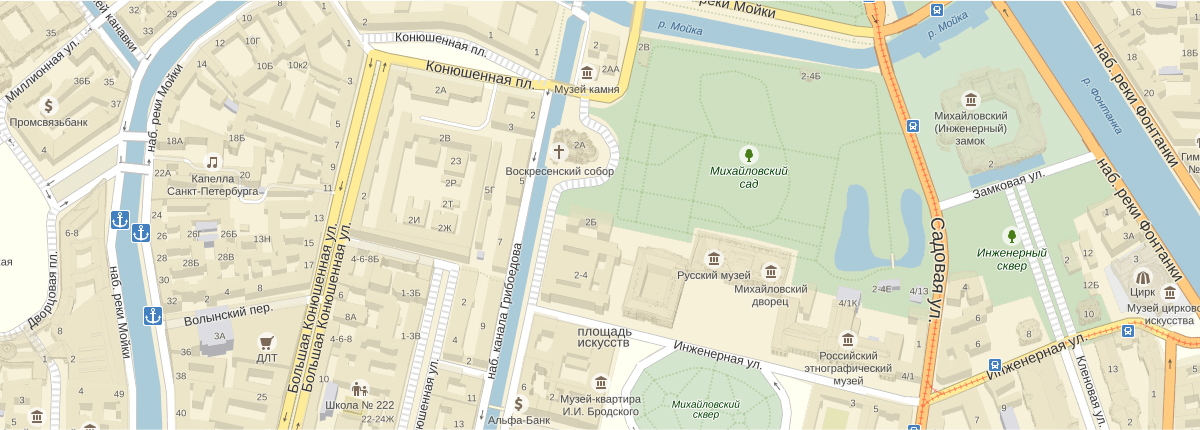
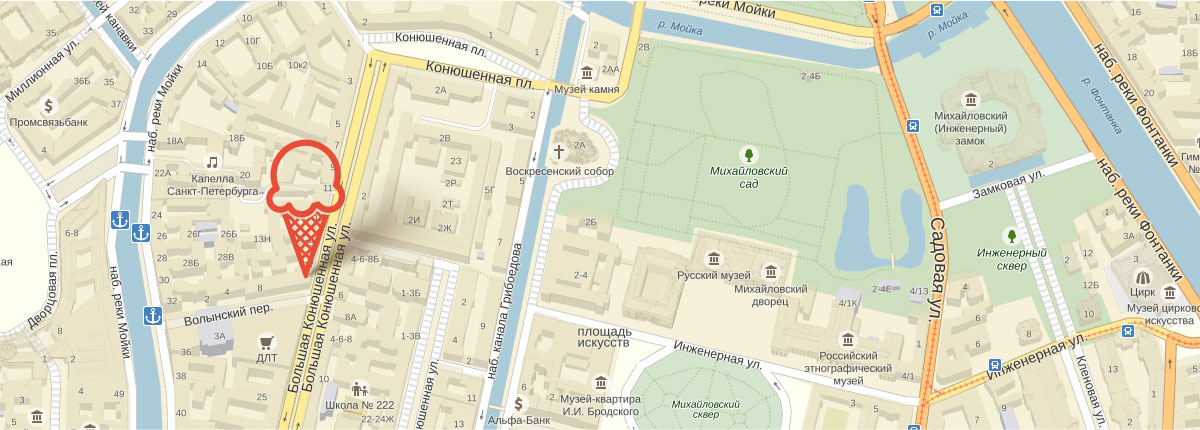
Подключил интерактивные элементы

Changed region(s): [[0.2158, 0.3023, 0.37, 0.6651]]

diff --git a/css/style.css b/css/style.css
@@ -12,6 +12,17 @@ body > input[type="radio"] {
   display: none;
 }
 
+input,
+textarea {
+  padding: 8px 13px 10px 13px ;
+  border-radius: 5px;
+  border: 1px solid #d3d3d3;
+  font-size: 14px;
+  line-height: 24px;
+  font-weight: 400;
+  outline: none;
+}
+
 a {
   color: #ffffff;
   text-decoration: none;
@@ -742,17 +753,17 @@ a {
   border-radius: 10px;
   color: #5a5a5a;
   background-color: #f8f7f4;
+  padding-left: 20px; 
 }
 
 .inner-mail p {
   margin: 0;
-  padding: 28px 20px 35px 20px;
+  padding: 28px 20px 35px 0;
 }
 
 .email {
   width: 340px;
-  margin: 0 10px 35px 20px ;
-  padding: 9px 13px;
+  margin: 0 10px 30px 0 ;
   border-radius: 5px;
   border: 1px solid #d3d3d3;
   font-size: 16px;
@@ -772,8 +783,10 @@ a {
 .index-map {
   position: relative;
   width: 1200px;
+  min-height: 430px;
   margin-left: -2.3%;
   margin-bottom: 25px; 
+  background: url("../img/map.jpg");
 }
 
 .feedback {
@@ -810,12 +823,6 @@ a {
   line-height: 24px;
   font-weight: 700;
 }
-
-/*.map-tag {
-    position: absolute;
-    top: 140px;
-    left: 260px;
-}*/
 
 /*---*/
 
@@ -1160,15 +1167,15 @@ li:hover .login {
   color: #ffbc9e;
 }
 
-.search-form input:hover,
-.login-form input:hover {
+input:hover,
+textarea:hover {
   padding: 7px 12px 9px 12px;
   outline: none;
   border: 2px solid #d3d3d3; 
 }
 
-.search-form input:focus,
-.login-form input:focus {
+input:focus,
+textarea:focus {
   padding: 7px 12px 9px 12px;
   outline: none;
   border: 2px solid #5b9ddf;
@@ -1183,12 +1190,30 @@ li:hover .login {
   color: #5b9ddf;
 }
 
-input:focus + label.hide-top span{
+input + label.hide-top span,
+textarea + label.hide-top span {
+  position: absolute;
+}
+
+input:focus + label.hide-top span {
   position: absolute;
   top: -40px;
   display: block;
   font-size: 11px;
   white-space: nowrap;
+}
+
+textarea:focus + label.hide-top span {
+  position: absolute;
+  top: 135px;
+  display: block;
+  font-size: 11px;
+  white-space: nowrap;
+}
+
+popup-feedback span,
+form span {
+  padding-left: 15px;
 }
 
 :focus::-webkit-input-placeholder {
@@ -1560,4 +1585,131 @@ input[type=range]::-moz-range-thumb {
   border-radius: 50%;
   cursor: pointer;
   -moz-appearance: none;
+}
+
+/*---*/
+
+.popup-feedback {
+  position: fixed;
+  top: 50%;
+  left: 50%;
+  z-index: 100;
+  display: none;
+  box-sizing: border-box;
+  width: 476px;
+  height: 442px;
+  margin-top: -221px;
+  margin-left: -238px;
+  padding-right: 25px;
+  padding-left: 25px;
+  color: #323232;
+  background-color: #f8f7f4;
+  border-radius: 10px;
+}
+
+.popup-feedback h3 {
+  margin: 0;
+  margin-top: 16px;
+  font-weight: 500;
+  font-size: 24px;
+  line-height: 28px;
+}
+
+.popup-feedback input {
+  box-sizing: border-box;
+  width: 267px;
+  margin-left: 0;
+  margin-top: 20px;
+}
+
+.popup-feedback textarea {
+  box-sizing: border-box;
+  width: 428px;
+  height: 155px;
+  margin-left: 0;
+  margin-top: 20px;
+}
+
+.popup-feedback button {
+  float: right;
+  margin-top: 15px;
+}
+
+.popup-close {
+  position: absolute;
+  top: 0px;
+  right: 15px;
+  width: 17px;
+  height: 17px;
+  font-size: 0;
+  background-color: #f8f7f4;
+  border: 0;
+  outline: 0;
+  cursor: pointer;
+}
+
+.popup-close::before,
+.popup-close::after {
+  content: "";
+  position: absolute;
+  top: 7px;
+  left: -2px;
+  width: 22px;
+  height: 2px;
+  background-color: #000000;
+  border-radius: 1px;
+}
+
+.popup-close::before {
+  -webkit-transform: rotate(45deg);
+          transform: rotate(45deg);
+}
+
+.popup-close::after {
+  -webkit-transform: rotate(-45deg);
+          transform: rotate(-45deg);
+}
+
+.popup-close:hover::before,
+.popup-close:hover::after {
+  background-color: #323232;
+}
+
+.popup-overlay {
+  position: fixed;
+  top: 0;
+  left: 0;
+  z-index: 90;
+  display: none;
+  width: 100%;
+  height: 100%;
+  background-color: rgba(0, 0, 0, 0.3);
+}
+
+.popup-feedback-show,
+.popup-overlay-show {
+  display: block;
+}
+
+.popup-feedback-show {
+  animation: bounce 0.6s;
+}
+
+@keyframes bounce {
+  0% {
+    -webkit-transform: translateY(-2000px);
+            transform: translateY(-2000px);
+  }
+  70% {
+    -webkit-transform: translateY(30px);
+            transform: translateY(30px);
+  }
+  90% {
+    -webkit-transform: translateY(-10px);
+            transform: translateY(-10px);
+  }
+  100% {
+    -webkit-transform: translateY(0);
+            transform: translateY(0);
+  }
 }

diff --git a/index.html b/index.html
@@ -156,23 +156,21 @@
                 <p>Подпишитесь на нашу сладкую рассылку и будете всегда в курсе всего самого вкусного, что у нас происходит. Обещаем не спамить и не слать всякой не нужной ерунды. Честно =)</p>
                 <form class="index-form" action="#" method="POST">
                   <input class="email" type="email" name="mail" value="" placeholder="Электронная почта">
+                  <label class="hide-top"><span>Электронная почта</span></label>
                   <button class="btn btn-mail" type="submit">Отправить</button>
                 </form>
               </div>
             </div>
           </section>
           <div class="index-map">
-            <div id="yandex-map">
-              <!--<img src="img/map.jpg" width="1200" height="430" alt="карта главного офиса">-static-->
-            </div>
-            <!--<div class="map-tag"><img src="img/map-tag.png" width="218" height="142" alt="метка главного офиса"></div>-->
+            <div id="yandex-map"></div>
             <div class="feedback">
               <h4>Адрес главного офиса и<br>офлайн магазина:</h4>
               <p> ул. Большая Конюшенная<br>19/8, Санкт-Петербург</p>
               <h4>Для заказов по телефону:</h4>
               <p>8 812 450-25-25</p>
               <span>(с 10 до 20 ежедневно)</span><br>
-              <button class="btn" type="submit">Форма обратной связи</button>
+              <button class="btn btn-feedback" type="submit">Форма обратной связи</button>
             </div>
           </div>
         </div>
@@ -202,6 +200,21 @@
         </div>
       </footer>
     </div>
+    <div class="popup-overlay"></div>
+    <div class="popup-feedback">
+      <h3>Мы обязательно вам ответим!</h3>
+      <button class="popup-close" type="button" title="Закрыть">Закрыть</button>
+      <form action="#" method="post">
+        <input type="text" name="popup-name" placeholder="Как вас зовут?" required>
+        <label class="hide-top"><span>Как вас зовут?</span></label>
+        <input type="email" name="popup-email" placeholder="Ваша почта для ответа?" required>
+        <label class="hide-top"><span>Ваша почта для ответа?</span></label>
+        <textarea name="popup-message" placeholder="Напишите что-нибудь..." required></textarea>
+        <label class="hide-top"><span>Напишите что-нибудь...</span></label>
+        <button class="btn site-button">Отправить</button>
+      </form>
+    </div>
     <script type="text/javascript" charset="utf-8" async src="https://api-maps.yandex.ru/services/constructor/1.0/js/?sid=JhkHWiBufV6gasoswLii_FLVrKoL9yER&amp;width=1200&amp;height=430&amp;lang=ru_RU&amp;sourceType=constructor&amp;scroll=true&id=yandex-map"></script>
+    <script src="js/feedback.js"></script>
   </body>
 </html>

diff --git a/js/feedback.js b/js/feedback.js
@@ -1,0 +1,59 @@
+var link = document.querySelector(".btn-feedback");
+var popup = document.querySelector(".popup-feedback");
+var overlay = document.querySelector(".popup-overlay");
+
+var name = document.querySelector("[name=popup-name]");
+var email = document.querySelector("[name=popup-email]");
+var message = document.querySelector("[name=popup-message]");
+
+var close = popup.querySelector(".popup-close");
+var form = popup.querySelector("form");
+
+link.addEventListener("click", function (event) {
+	
+	event.preventDefault();
+	popup.classList.add("popup-feedback-show");
+	overlay.classList.add("popup-overlay-show");
+
+	if (localStorage.getItem("name") && localStorage.getItem("email")) {
+		name.value = localStorage.getItem("name");
+		email.value = localStorage.getItem("email");
+		message.focus();
+	}
+
+});
+
+form.addEventListener("submit", function (event) {
+
+	if (!name.value && !email.value) {
+		event.preventDefault();
+	} else {
+		localStorage.setItem("name", name.value);
+		localStorage.setItem("email", email.value);
+	}
+
+});
+
+close.addEventListener("click", function (event) {
+	
+	popup.classList.remove("popup-feedback-show");
+	overlay.classList.remove("popup-overlay-show");
+
+});
+
+overlay.addEventListener("click", function (event) {
+	
+	popup.classList.remove("popup-feedback-show");
+	overlay.classList.remove("popup-overlay-show");
+	
+});
+
+window.addEventListener("keydown", function (event) {
+	
+	if (event.keyCode === 27) {
+		if (popup.classList.contains("popup-feedback-show")) {
+			popup.classList.remove("popup-feedback-show");
+			overlay.classList.remove("popup-overlay-show");
+		}
+	}
+});
